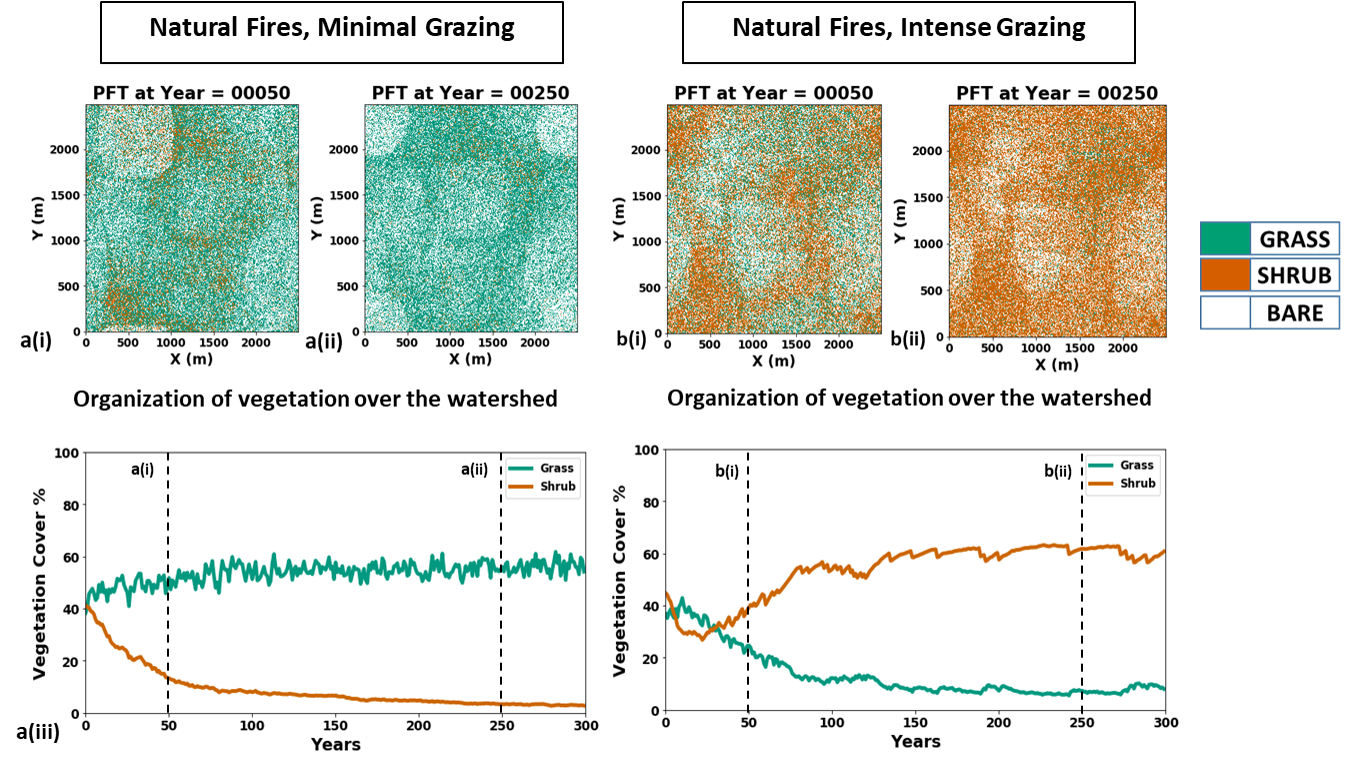
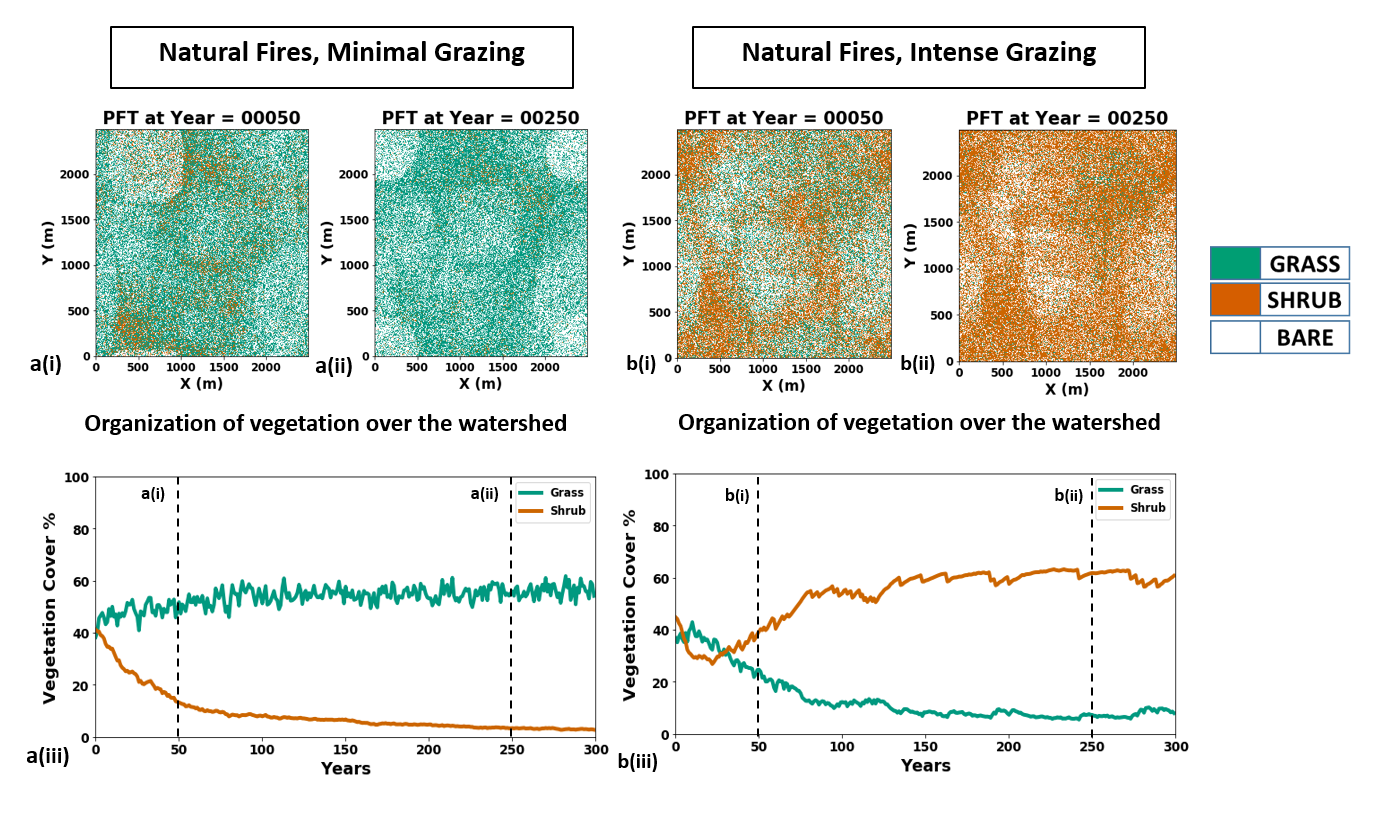
added project 3
- added project for resource redistribution.

diff --git a/_portfolio/Landlab_model_B_ResourceRedistribution.md b/_portfolio/Landlab_model_B_ResourceRedistribution.md
@@ -1,0 +1,26 @@
+---
+title: "Influence of disturbances on shrub invasion of grasslands in arid watersheds."
+excerpt: "Influence of fires and grazing on grasslands<br/><img src='/images/ResourceRedistribution_Model_B.png'>"
+collection: portfolio
+---
+
+In this work, we investigate the role of disturbances, such as fires and
+grazing, on vegetation organization in arid areas characterized with
+aeolian sediment transport. We adapted a conceptual cellular automaton
+model that couples vegetation states and soil resource level from 
+[Ravi et al. (2009)](Ravi, S., & D’Odorico, P. (2009). Post-fire resource redistribution and fertility island dynamics in shrub encroached desert grasslands: a modeling approach. Landscape Ecology, 24(3), 325-335.).
+
+We demonstrate the application of this model in Landlab in the figure below: 
+(a) Ecosystem response to a natural fire regime and minimal grazing:
+(i)&(ii) spatial map of modeled vegetation organziation at years 50 & 250 respectively; 
+(b) Ecosystem response to a natural fire regime and intense grazing:
+(i)&(ii) spatial map of modeled vegetation organziation at years 50 & 250 respectively.
+Model predicts that shrubs will dominate under conditions of
+intense grazing.
+
+<img src='/images/ResourceRedistribution_Model_B.png'>
+
+For more information, checkout [this](https://saisiddu.github.io/talks/2018-12-10-AGU-iposter) presentation
+and stay tuned for [this](https://saisiddu.github.io/publication/2019-09-01-paper-title-number-7) publication.
+
+*PFT - Plant Functional Type (Tree, Shrub, or Grass)

diff --git a/_portfolio/Landlab_model_A_CATGraSS.md b/_portfolio/Landlab_model_A_CATGraSS.md
@@ -17,8 +17,8 @@ figure below:
 (a) CATGraSS model flow chart showing flow between different model components; 
 (b) time series of modeled grass, shrub, and tree cover fractions for CATGraSS 
 implementation on a flat domain for central New Mexico climatology. 
-Spatial distributions of plants in model initial condition (c), 
-after 1,000 years (d), and year 1,500.  Model shows epochs of shrub 
+(c) Spatial distributions of plants in model: (i) initial condition, 
+(ii) after 1,000 years, and (iii) year 1,500.  Model shows epochs of shrub 
 and grass dominance in the modeled domain, while trees were outcompeted.
 
 <img src='/images/CATGraSS_Hobley_et_al.PNG'>
